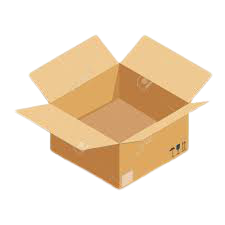
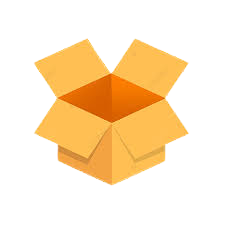
commit

diff --git a/src/components/Cart/Cart.jsx b/src/components/Cart/Cart.jsx
@@ -1,8 +1,82 @@
 import React from 'react'
 import { Container, Typography, Button, Grid } from '@material-ui/core'
 import useStyles from './styles'
+import styled from 'styled-components/macro';
+import box from '../../assets/box.png'
 import CartItem from './CartItem/CartItem';
 import { Link } from "react-router-dom";
+
+//styles
+const EmptyCartContainer = styled.div`
+    display: flex;
+    flex-direction: column;
+    align-items: center;
+    justify-content: center;
+    height: 60vh;
+    padding: 0 12rem;
+
+    @media screen and (max-width: 1200px) {
+        padding: 0 10rem;
+    }
+    @media screen and (max-width: 1000px) {
+        padding: 0 8rem;
+    }
+    @media screen and (max-width: 920px) {
+        padding: 0 6rem;
+    }
+    @media screen and (max-width: 768px) {
+        padding: 0 5rem;
+    }
+    @media screen and (max-width: 600px) {
+        padding: 0 4rem;
+    }
+    @media screen and (max-width: 500px) {
+        padding: 0 3rem;
+    }
+    @media screen and (max-width: 450px) {
+        padding: 0 2rem;
+    }
+
+    h2 {
+        @media screen and (max-width: 340px) {
+            font-size: 18px;
+            text-align: center;
+        }
+    }
+
+
+    img {
+        width: 250px;
+        height: 250px;
+    }
+
+    p {
+        margin: 10px 0;
+        text-align: center;
+
+        @media screen and (max-width: 340px) {
+            font-size: 12px;
+        }
+    }
+`
+
+const Btn = styled(Link)`
+    display: flex;
+    padding: 10px 20px;
+    background: midnightblue;
+    color: #fff;
+    border-radius: 5px;
+    font-size: 15px;
+    transition: .5s;
+
+    &:hover {
+        transform: scale(.95);
+    }
+
+    @media screen and (max-width: 340px) {
+        font-size: 12px;
+    }
+`
 
 const Cart = ({ cart, updateProductQty, removeFromCart, emptyCart }) => {
     const classes = useStyles();
@@ -10,10 +84,12 @@ const Cart = ({ cart, updateProductQty, removeFromCart, emptyCart }) => {
     
     const EmptyCart = () => {
         return (
-            <Typography variant='subtitle1'>
-                Your cart is empty
-                <Link to='/' className={classes.link}>Start Shopping</Link>
-            </Typography>
+            <EmptyCartContainer>
+                <img src={box} alt="empty-box" />
+                <h2>Your cart is empty</h2>
+                <p>Looks like you haven't added any items to your cart yet.</p>
+                <Btn to='/' className={classes.link}>Continue Shopping</Btn>
+            </EmptyCartContainer>
         )
     };
     

diff --git a/src/components/Navbar/Navbar.jsx b/src/components/Navbar/Navbar.jsx
@@ -41,6 +41,16 @@ const Container = styled.section`
     @media screen and (max-width: 450px) {
         padding: 0 2rem;
     }
+
+    h4 {
+        @media screen and (max-width: 320px) {
+            font-size: 13px;
+        }
+        
+        @media screen and (max-width: 290px) {
+            font-size: 11px;
+        }
+    }
 `
 
 const Logo = styled(Link)`
@@ -97,7 +107,7 @@ const Navbar = ({ totalItems, totalCost }) => {
                         <Tag>{totalItems}</Tag>
                     </Button>) : (
                     <h4>
-                        Total cost: <strong>{totalCost}</strong>
+                        Total cost: {totalCost}
                     </h4>)
                 }
             </Container>
